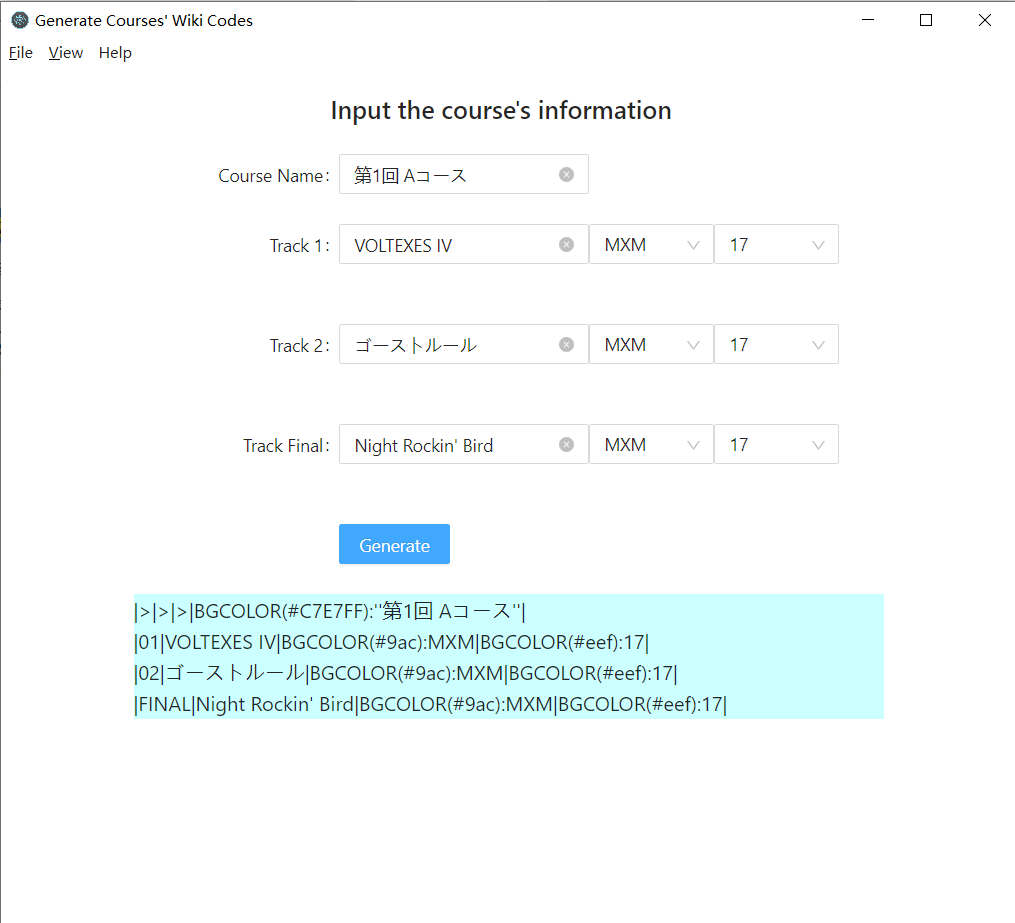
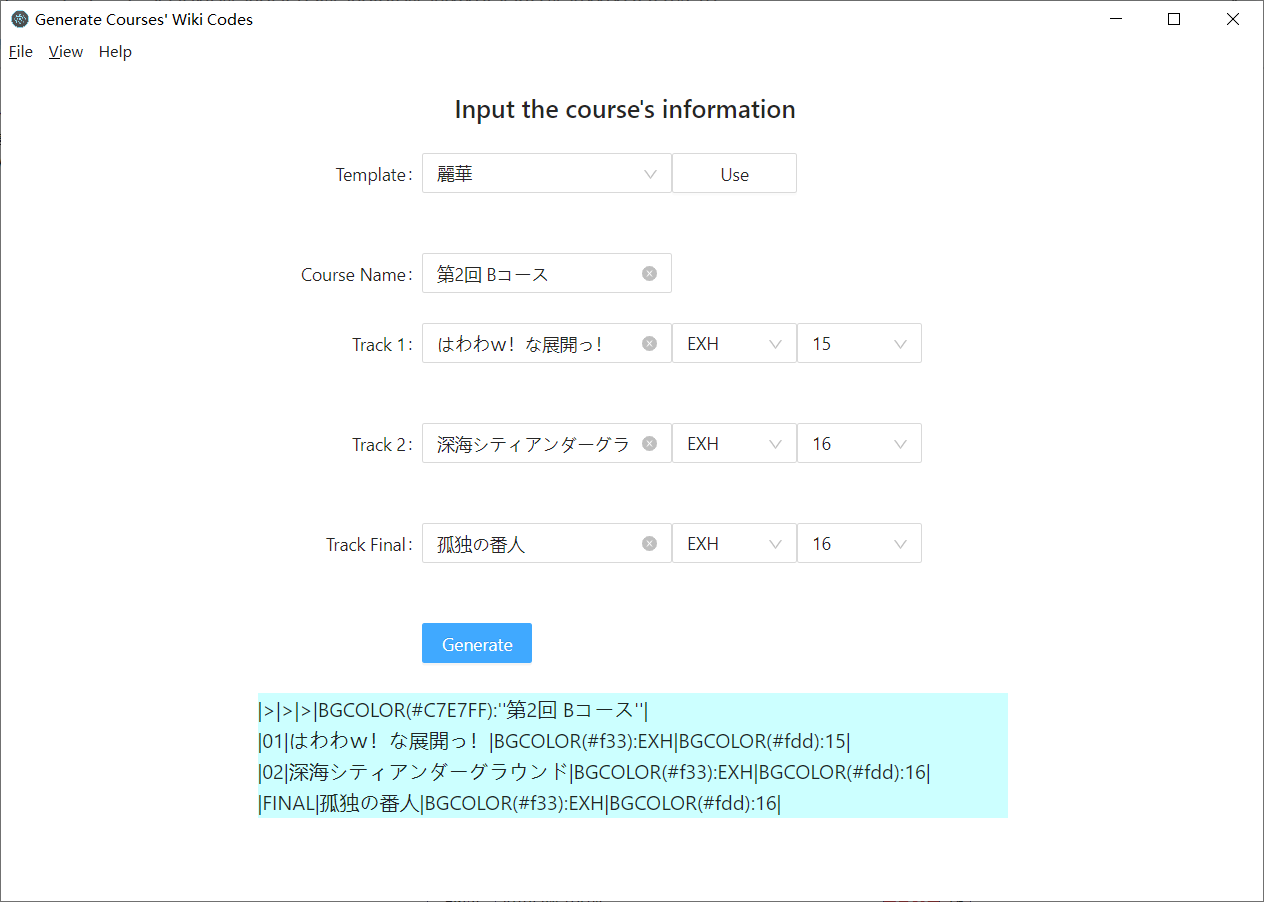
feat: provide some templates

diff --git a/src/App.tsx b/src/App.tsx
@@ -1,16 +1,37 @@
 import React, { useState } from 'react';
 import { BrowserRouter as Router, Switch, Route } from 'react-router-dom';
-import { Form, PageHeader, Input, Row, Button } from 'antd';
+import { Form, PageHeader, Input, Row, Button, Select } from 'antd';
 import './App.global.css';
 import DifficultySelect from './components/DifficultySelect';
 import LevelSelect from './components/LevelSelect';
 import generateWikiCodes from './utils/wiki';
+import {
+  getCourseCommonDifficulty,
+  getCourseCommonLevel,
+} from './utils/course';
 
 const Generator = () => {
   const [wikiCodes, setWikiCodes] = useState<React.ReactNode>('');
+  const [form] = Form.useForm();
 
   const onFinish = (value: Course.Information) => {
     setWikiCodes(generateWikiCodes(value));
+  };
+
+  const onUseTemplate = () => {
+    const template = form.getFieldValue('template');
+    const levels = getCourseCommonLevel(template);
+    form.setFieldsValue({
+      level1: levels[0],
+      level2: levels[1],
+      level3: levels[2],
+    });
+    const difficulties = getCourseCommonDifficulty(template);
+    form.setFieldsValue({
+      difficulty1: difficulties[0],
+      difficulty2: difficulties[1],
+      difficulty3: difficulties[2],
+    });
   };
 
   return (
@@ -22,7 +43,31 @@ const Generator = () => {
         labelCol={{ span: 8 }}
         wrapperCol={{ span: 16 }}
         onFinish={onFinish}
+        form={form}
       >
+        <Form.Item label="Template">
+          <Form.Item style={{ display: 'inline-block' }} name="template">
+            <Select style={{ width: 200 }} placeholder="Select a course">
+              <Select.Option value={1}>岳翔</Select.Option>
+              <Select.Option value={2}>流星</Select.Option>
+              <Select.Option value={3}>月衝</Select.Option>
+              <Select.Option value={4}>瞬光</Select.Option>
+              <Select.Option value={5}>天極</Select.Option>
+              <Select.Option value={6}>烈風</Select.Option>
+              <Select.Option value={7}>雷電</Select.Option>
+              <Select.Option value={8}>麗華</Select.Option>
+              <Select.Option value={9}>魔騎士</Select.Option>
+              <Select.Option value={10}>剛力羅</Select.Option>
+              <Select.Option value={11}>或帝滅斗</Select.Option>
+              <Select.Option value={12}>暴龍天</Select.Option>
+            </Select>
+          </Form.Item>
+          <Form.Item style={{ display: 'inline-block' }}>
+            <Button style={{ width: 100 }} onClick={onUseTemplate}>
+              Use
+            </Button>
+          </Form.Item>
+        </Form.Item>
         <Form.Item label="Course Name" name="course">
           <Input
             placeholder="Example: 第1回 Aコース"
@@ -34,10 +79,18 @@ const Generator = () => {
           <Form.Item style={{ display: 'inline-block' }} name="name1">
             <Input style={{ width: 200 }} placeholder="Song Name" allowClear />
           </Form.Item>
-          <Form.Item style={{ display: 'inline-block' }} name="difficulty1">
+          <Form.Item
+            style={{ display: 'inline-block' }}
+            name="difficulty1"
+            initialValue="ADV"
+          >
             <DifficultySelect style={{ width: 100 }} />
           </Form.Item>
-          <Form.Item style={{ display: 'inline-block' }} name="level1">
+          <Form.Item
+            style={{ display: 'inline-block' }}
+            name="level1"
+            initialValue={6}
+          >
             <LevelSelect style={{ width: 100 }} />
           </Form.Item>
         </Form.Item>
@@ -45,10 +98,18 @@ const Generator = () => {
           <Form.Item style={{ display: 'inline-block' }} name="name2">
             <Input style={{ width: 200 }} placeholder="Song Name" allowClear />
           </Form.Item>
-          <Form.Item style={{ display: 'inline-block' }} name="difficulty2">
+          <Form.Item
+            style={{ display: 'inline-block' }}
+            name="difficulty2"
+            initialValue="ADV"
+          >
             <DifficultySelect style={{ width: 100 }} />
           </Form.Item>
-          <Form.Item style={{ display: 'inline-block' }} name="level2">
+          <Form.Item
+            style={{ display: 'inline-block' }}
+            name="level2"
+            initialValue={7}
+          >
             <LevelSelect style={{ width: 100 }} />
           </Form.Item>
         </Form.Item>
@@ -56,10 +117,18 @@ const Generator = () => {
           <Form.Item style={{ display: 'inline-block' }} name="name3">
             <Input style={{ width: 200 }} placeholder="Song Name" allowClear />
           </Form.Item>
-          <Form.Item style={{ display: 'inline-block' }} name="difficulty3">
+          <Form.Item
+            style={{ display: 'inline-block' }}
+            name="difficulty3"
+            initialValue="ADV"
+          >
             <DifficultySelect style={{ width: 100 }} />
           </Form.Item>
-          <Form.Item style={{ display: 'inline-block' }} name="level3">
+          <Form.Item
+            style={{ display: 'inline-block' }}
+            name="level3"
+            initialValue={7}
+          >
             <LevelSelect style={{ width: 100 }} />
           </Form.Item>
         </Form.Item>

diff --git a/src/utils/course.ts b/src/utils/course.ts
@@ -1,0 +1,40 @@
+export function getCourseCommonLevel(value: number): number[] {
+  switch (value) {
+    case 1:
+      return [6, 7, 7];
+    case 2:
+      return [7, 8, 8];
+    case 3:
+      return [9, 10, 10];
+    case 4:
+      return [10, 11, 11];
+    case 5:
+      return [12, 13, 13];
+    case 6:
+      return [14, 14, 14];
+    case 7:
+      return [15, 15, 15];
+    case 8:
+      return [15, 16, 16];
+    case 9:
+      return [16, 17, 17];
+    case 10:
+      return [17, 17, 17];
+    case 11:
+      return [18, 18, 18];
+    case 12:
+      return [19, 19, 20];
+    default:
+      return [6, 7, 7];
+  }
+}
+
+export function getCourseCommonDifficulty(value: number): string[] {
+  if (value <= 5) {
+    return ['ADV', 'ADV', 'ADV'];
+  }
+  if (value > 5 && value <= 8) {
+    return ['EXH', 'EXH', 'EXH'];
+  }
+  return ['MXM', 'MXM', 'MXM'];
+}

diff --git a/src/components/LevelSelect.tsx b/src/components/LevelSelect.tsx
@@ -21,7 +21,7 @@ const LevelSelect: React.FC<LevelSelectPropsType> = (props) => {
       value={value}
       onChange={onChange}
     >
-      {Array.from({ length: 20 }, (_item, index) => index + 1).map((v) => (
+      {Array.from({ length: 15 }, (_item, index) => index + 6).map((v) => (
         <Select.Option value={v} key={v}>
           {v}
         </Select.Option>

diff --git a/README.md b/README.md
@@ -5,6 +5,7 @@ A GUI tool to generate wiki source codes for [BEMANIWIKI SDVXV SKILL ANALYZER pa
 ## Usage
 
 - Input the course name and 3 tracks information of the course.
+- Click the `Use` button to use a course template, which can automatically generate the difficulties and levels (It's just a template, you should check and modify some course by yourself).
 - Click the `Generate` button and get the wiki codes.
 
 <img src="pics\demo.png" alt="demo" style="zoom:60%;" />
@@ -13,7 +14,6 @@ A GUI tool to generate wiki source codes for [BEMANIWIKI SDVXV SKILL ANALYZER pa
 
 - [ ] Beautify the UI.
 - [ ] Batch generate courses.
-- [ ] Provide some templates.
 
 ## Develop
 
